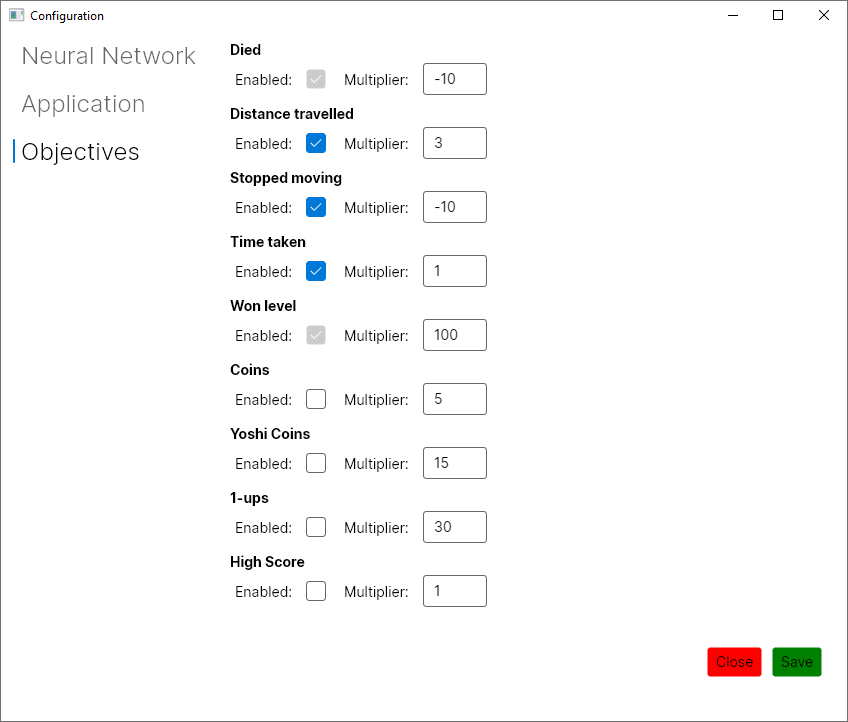
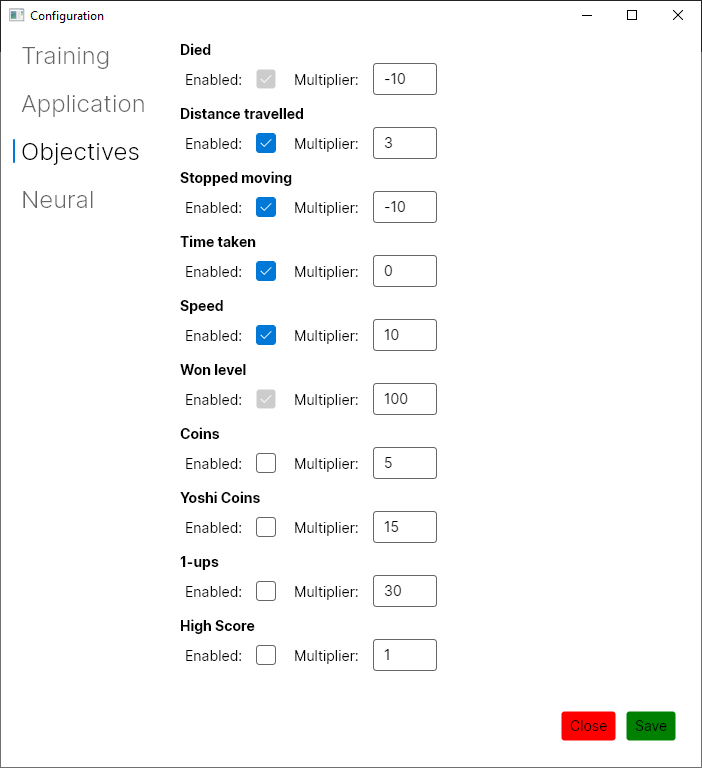
Added Speed Score Factor

diff --git a/SMW-ML/Neural/Scoring/SpeedScoreFactor.cs b/SMW-ML/Neural/Scoring/SpeedScoreFactor.cs
@@ -1,0 +1,34 @@
+using SMW_ML.Game.SuperMarioWorld;
+using System;
+
+namespace SMW_ML.Neural.Scoring
+{
+    internal class SpeedScoreFactor : IScoreFactor
+    {
+        private uint maxX = 0;
+        private int framesTaken = 0;
+        private double currScore = 0;
+
+        public string Name => "Speed";
+        public bool CanBeDisabled => true;
+        public bool IsDisabled { get; set; }
+        public bool ShouldStop => false;
+        public double ScoreMultiplier { get; set; }
+
+        public void Update(DataFetcher dataFetcher)
+        {
+            maxX = Math.Max(maxX, dataFetcher.GetPositionX());
+        }
+
+        public void LevelDone()
+        {
+            currScore += (maxX / 16.0) / (framesTaken / 60.0) * ScoreMultiplier;
+            framesTaken = 0;
+            maxX = 0;
+        }
+
+        public double GetFinalScore() => currScore;
+
+        public object Clone() => new SpeedScoreFactor() { IsDisabled = IsDisabled, ScoreMultiplier = ScoreMultiplier };
+    }
+}

diff --git a/SMW-ML/Models/Config/ApplicationConfig.cs b/SMW-ML/Models/Config/ApplicationConfig.cs
@@ -10,18 +10,7 @@ namespace SMW_ML.Models.Config
         {
             StopTrainingCondition = "";
             ArduinoCommunicationPort = "COM3";
-            ScoreFactors = new List<IScoreFactor>()
-            {
-                new DiedScoreFactor() { ScoreMultiplier = -10 },
-                new DistanceScoreFactor() { ScoreMultiplier = 3 },
-                new StopMovingScoreFactor() { ScoreMultiplier = -10 },
-                new TimeTakenScoreFactor() { ScoreMultiplier = 1 },
-                new WonLevelScoreFactor() { ScoreMultiplier = 100 },
-                new CoinsScoreFactor() { ScoreMultiplier = 5 },
-                new YoshiCoinsScoreFactor() { ScoreMultiplier = 15 },
-                new OneUpsScoreFactor() { ScoreMultiplier = 30 },
-                new HighScoreScoreFactor() { ScoreMultiplier = 1 }
-            };
+            ScoreFactors = new List<IScoreFactor>();
             SaveStates = new List<string>();
 
             NeuralConfig = new NeuralConfig();

diff --git a/README.md b/README.md
@@ -148,6 +148,10 @@ This page lists all of the available training objectives. Some of them cannot be
   * Gives some points based on the amount of seconds the AI had left before its training being shutdown. 
   * Note that these points are given even if the AI died or stopped moving.
   * Do not set this value too high unless you also raise the penalty for dying and not moving, as the AI might be encouraged to kill itself or idle as soon as possible to max out its score.
+  * It is recommended to leave this value at 0 if the [Speed](#Speed) objective is used.
+* **Speed**
+  * Gives points based on the speed of the AI. 
+  * The formula is (\{Maximum Tiles distance\} / \{Seconds taken\}) \* \{Multiplier\}
 * **Won level**
   * The amount of points to attribute if the AI wins a level. Ideally, this should be a high value to encourage actually finishing levels.
 * **Coins**
@@ -157,7 +161,9 @@ This page lists all of the available training objectives. Some of them cannot be
 * **1-ups**
   * The amount of points to give the AI per 1-up collected from any source.
 * **High Score**
-  * The amount of points to give the AI for its displayed high-score, divided by 1000. So a high-score of 55200 with a multiplier of 2 will give a total amount of points of 110.4 to the AI.
+  * The amount of points to give the AI for its displayed high-score.
+  * The formula is (\{Displayed High Score\} / 1000) \* \{Multiplier\}
+  * So a high-score of 55200 with a multiplier of 2 will give a total amount of points of 110.4 to the AI.
   
 #### Neural
 ![Image of the neural configuration menu](docs/config-neural.png)  
